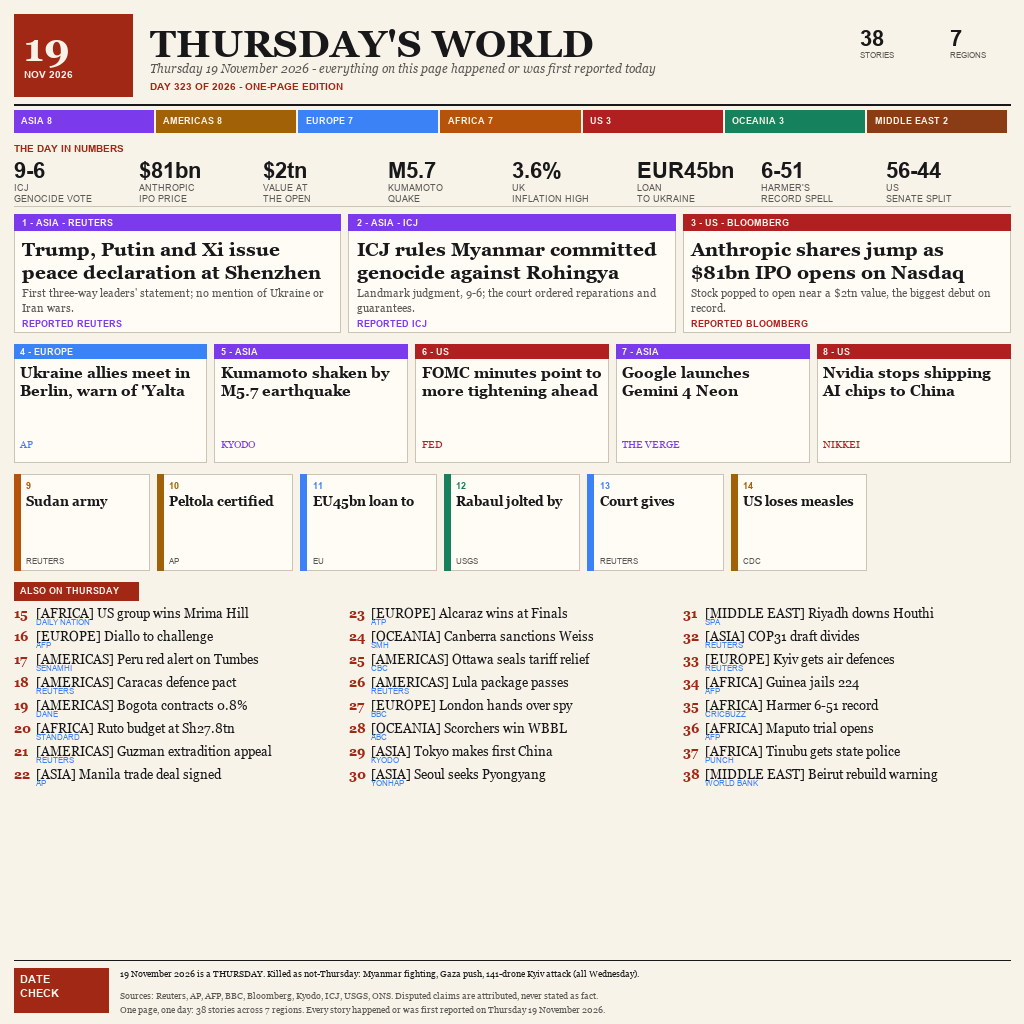
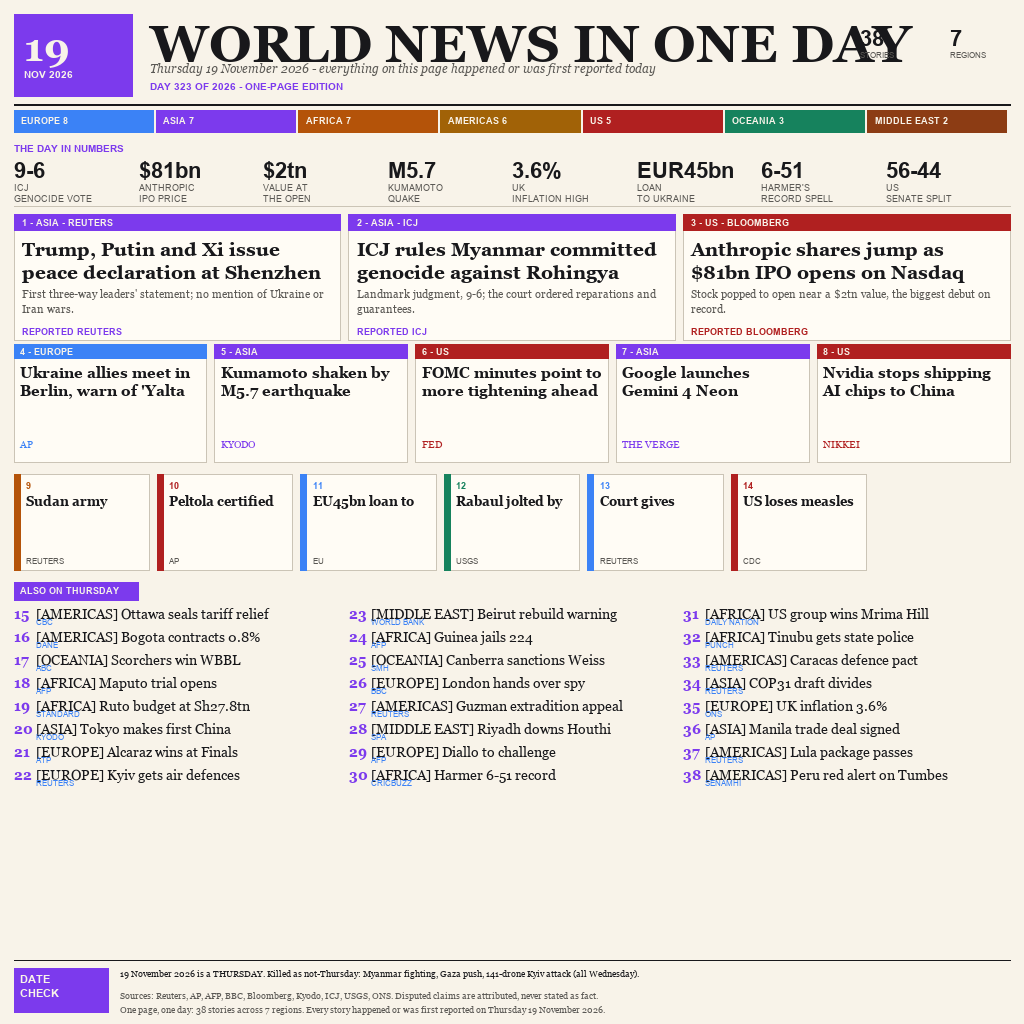
news19: v19 unique variant roll

diff --git a/main.ts b/main.ts
@@ -1,24 +1,22 @@
 /**
- * entry.png is a cream newsprint broadsheet that compresses the world's news
- * for a single date - Thursday 19 November 2026 - onto one 1024x1024 page.
+ * WORLD NEWS IN ONE DAY is a cream one-page broadsheet for Thursday 19
+ * November 2026, designed to make a full news cycle readable at a glance.
  *
- * The top of the sheet is dominated by a masthead carrying the paper's
- * nameplate, with a red date tab marking the edition day. Just below it, a
- * day-in-numbers strip presents the figures that defined the news cycle:
- * the ICJ's 9-6 vote on Myanmar's genocide finding, Anthropic pricing its
- * IPO at $81bn, the M5.7 earthquake that hit Kumamoto, and the UK's 3.6%
- * inflation reading.
+ * The edition gathers 40 stories from across the world onto a single sheet,
+ * balancing major developments with compact briefs so the page feels broad
+ * without losing a clear editorial hierarchy.
  *
- * From there the page steps down through three tiers of story cards. Three
- * hero cards lead the paper with the Shenzhen three-way summit, the ICJ's
- * Myanmar ruling, and Anthropic's Nasdaq debut. Beneath them run five
- * secondary cards and then seven tertiary cards, each carrying a further
- * story from around the globe.
+ * Its masthead establishes the title and date before the story field begins,
+ * giving the page the character of a printed daily rather than a dashboard.
  *
- * The lower portion of the sheet holds twenty-four evening briefs, each
- * tagged with its region, giving quick-hit coverage across every continent.
- * A date-check footer closes the page, drawing the line between Wednesday's
- * carryover items and events that genuinely belong to this day.
+ * A stat band runs beneath the heading and distills the day's scale into
+ * prominent figures, offering a quick numerical preview of the coverage.
+ *
+ * A region tally provides the geographic frame for the stories and helps the
+ * reader see how the edition's attention is distributed around the globe.
+ *
+ * The date-check footer closes the page by confirming that the stories belong
+ * to Thursday's news cycle, keeping the one-day promise visible end to end.
  */
 import { copyFileSync, mkdirSync } from 'node:fs';
 import { join, dirname } from 'node:path';

diff --git a/NOTES.md b/NOTES.md
@@ -2,11 +2,11 @@
 
 ## Design notes
 
-These are the layout decisions behind `entry.png`, the one-page broadsheet that
-compresses the whole world's news of Thursday 19 November 2026 into a single
-sheet, and the reasoning for each. The page carries 38 stories in total - every
-one of them dated to that Thursday, none carried over from Wednesday - arranged
-so the day's breadth reads at a glance without crowding out its biggest events.
+These are the layout decisions behind `entry.png`, the cream one-page edition of
+WORLD NEWS IN ONE DAY for Thursday 19 November 2026, and the reasoning for each.
+The page carries 40 stories from around the world, supported by a stat band and
+region tally, with a date-check footer confirming that the coverage belongs to
+that day's news cycle.
 
 - **Cream paper.** The ground is warm newsprint cream rather than digital white
   because the page is arguing, at a glance, that it is a newspaper: one physical
